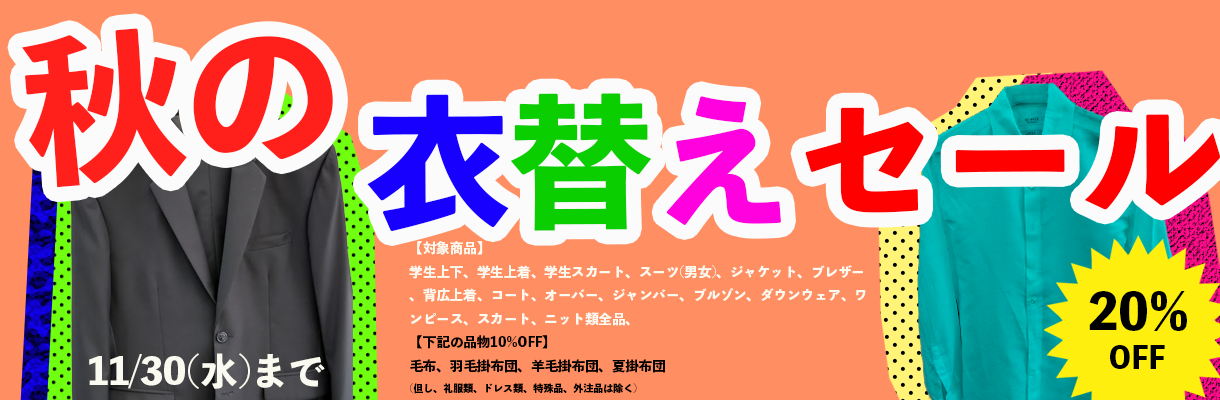
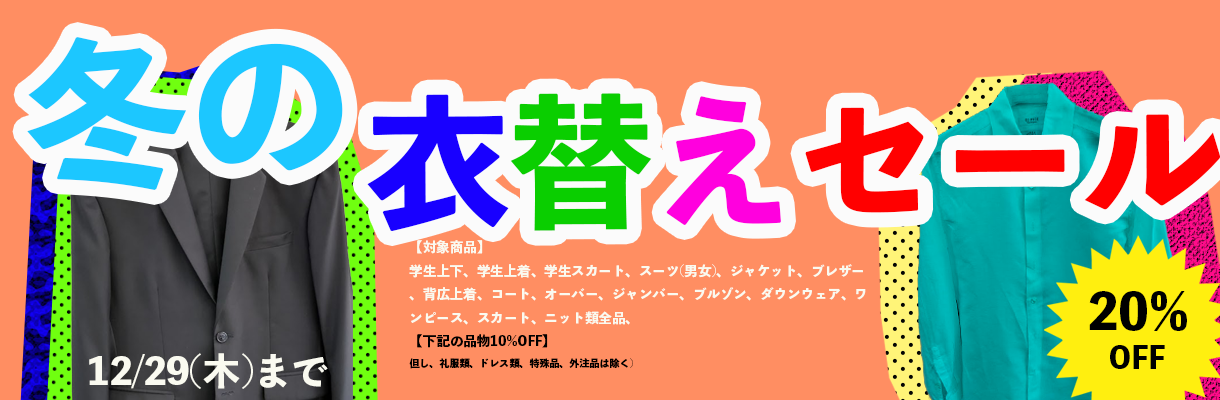
winter add

diff --git a/app/Http/Controllers/storeController.php b/app/Http/Controllers/storeController.php
@@ -32,12 +32,13 @@ class storeController extends Controller
 
 		}
 
-	     $day_1 = new Carbon("2022-11-15");
-	     $day_2 = new Carbon("2022-11-30");
+	     $day_1 = new Carbon("2022-12-20");
+	     $day_2 = new Carbon("2022-12-30");
 
-	     if($day > $day_1){
+	     if($day >= $day_1){
 		     $day = 1;
-	     }elseif($day_2 > $day){
+	     }
+	     if($day_2 > $day){
 		     $day = 0;
 	     }
                 return view('pc.turumaki',compact('value','day'));
@@ -61,12 +62,14 @@ class storeController extends Controller
 
 		}
 	       //day_1は開始日、day2は終了日
-	       $day_1 = new Carbon("2022-11-15");
-	       $day_2 = new Carbon("2022-11-30");
+	       $day_1 = new Carbon("2022-12-20");
+	       $day_2 = new Carbon("2022-12-30");
 
-          	if($day > $day_1){
+          	if($day >= $day_1){
                       $day = 1;
-                 }elseif($day_2 > $day){
+		}
+	       
+	       if($day_2 > $day){
                       $day = 0;
                 }
 		/*曜日のロジックは上と同じにするな*/
@@ -93,14 +96,15 @@ class storeController extends Controller
 		}
 	        
 	       //day_1は開始日、day_2は終了日
-               $day_1 = new Carbon("2022-11-15");
-               $day_2 = new Carbon("2022-11-30");
+               $day_1 = new Carbon("2022-12-20");
+               $day_2 = new Carbon("2022-12-30");
 
-                if($day > $day_1){
+                if($day >= $day_1){
                       $day = 1;
-                 }elseif($day_2 > $day){
+		}
+	        if($day_2 > $day){
                       $day = 0;
-                }
+	       }
                 return view('pc.turusmart',compact('value','day'));
 
 
@@ -126,12 +130,13 @@ class storeController extends Controller
 
 		}
 
-               $day_1 = new Carbon("2022-11-15");
-               $day_2 = new Carbon("2022-11-30");
+               $day_1 = new Carbon("2022-12-20");
+               $day_2 = new Carbon("2022-12-30");
 
-                if($day > $day_1){
+                if($day >= $day_1){
                       $day = 1;
-                 }elseif($day_2 > $day){
+		}
+		if($day_2 > $day){
                       $day = 0;
                 }
 

diff --git a/resources/views/pc/titosesmart.blade.php b/resources/views/pc/titosesmart.blade.php
@@ -48,7 +48,7 @@
   <div id ="content2">
     <ul class="slider">
       @if($day==1)
-        <!--<img src="{{ asset('img/titoseautumnsmart2.png') }}"alt="秋の衣替えセール">-->
+	<img src="{{ asset('img/titoseautumnsmart2.png') }}"alt="冬の衣替えセール">
       @else
       @endif
       <!--<img src="{{ asset('img/titoseautumnsmart.png') }}" alt="秋の衣替えセール">-->

diff --git a/resources/views/pc/titosedai.blade.php b/resources/views/pc/titosedai.blade.php
@@ -35,7 +35,7 @@
   <!--スライドショー-->
     <ul class="slider">
      @if($day==1)
-       <!-- <img src="{{ asset('img/titoseautumn2.png') }}" alt="秋の衣替えセール">-->
+       <img src="{{ asset('img/titoseautumn2.png') }}" alt="冬の衣替えセール">
       @else
       @endif
     <!-- <img src="{{ asset('img/titoseautumn.png') }}" alt="秋の衣替えセール">-->

diff --git a/resources/views/pc/turusmart.blade.php b/resources/views/pc/turusmart.blade.php
@@ -48,7 +48,7 @@
   <div id ="content2">
     <ul class="slider">
       @if($day==1)
-<!--<img src="{{ asset('img/turuautumnsmart2.png') }}" alt="秋の衣替えセール">-->
+      <img src="{{ asset('img/turuautumnsmart2.png') }}" alt="冬の衣替えセール">
       @else
       @endif
      <!--<img src="{{ asset('img/turuautumnsmart.png') }}" alt="秋の衣替えセール">-->

diff --git a/resources/views/pc/turumaki.blade.php b/resources/views/pc/turumaki.blade.php
@@ -35,7 +35,7 @@
   <!--スライドショー-->
     <ul class="slider">
     @if($day==1)
-     <!--<img src="{{ asset('img/turuautumn2.png') }}" alt="秋の衣替えセール">-->
+     <img src="{{ asset('img/turuautumn2.png') }}" alt="冬の衣替えセール">
      @else
      @endif
     <!-- <img src="{{ asset('img/turuautumn.png') }}" alt="秋の衣替えセール">-->
